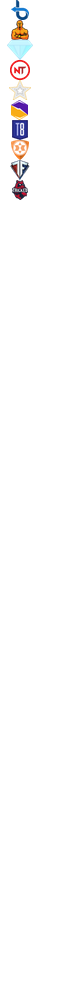
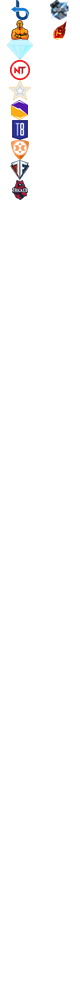
I've added Derpy Murky, Master League and both Valeera flair, as well as Might and L5 flair.
I put Valeera flair at the bottom of the current spritesheet for flair and updated hero_flair.scss.

I put Derpy Murky and Master League into the new flair-general, and updated general.scss with the new position for scilenced.

L5 and Might flair were added to the current esports_flair.scss

I also renamed the file general.scss to general_flair.scss to match naming convention.

Changed region(s): [[0.625, 0.0, 0.875, 0.062]]

diff --git a/main.scss b/main.scss
@@ -12,6 +12,6 @@
 // categorized flair styling more specificity to use different spritesheets.
 @import "user_flair/user_flair";
 @import "user_flair/esports_flair";
-@import "user_flair/general";
+@import "user_flair/general_flair";
 @import "user_flair/hero_flair";
 @import "user_flair/team_flair";

diff --git a/user_flair/general_flair.scss b/user_flair/general_flair.scss
@@ -1,0 +1,15 @@
+.flair-general::before {
+  background: url(%%flair-general%%);
+}
+
+.flair-g-silenced::before {
+  background-position: 40px -260px;
+}
+
+.flair-g-derpy-murky::before {
+	background-position: 40px -280px;
+}
+
+.flair-g-masterleague::before {
+	background-position: 40px -300px;
+}

diff --git a/user_flair/hero_flair.scss b/user_flair/hero_flair.scss
@@ -595,3 +595,11 @@
 .flair-master-zuljin::before {
   background-position: 40px -2800px
 }
+
+.flair-valeera::before {
+  background-position: 0 -2820px
+}
+
+.flair-master-valeera::before {
+  background-position: 40px -2820px
+}

diff --git a/user_flair/esports_flair.scss b/user_flair/esports_flair.scss
@@ -41,3 +41,11 @@
 .flair-e-tricked-esport::before {
   background-position: 0 -180px;
 }
+
+.flair-e-mighty::before {
+  background-position: 40px 0;
+}
+
+.flair-e-l5::before {
+  background-position: 40px -20px;
+}
